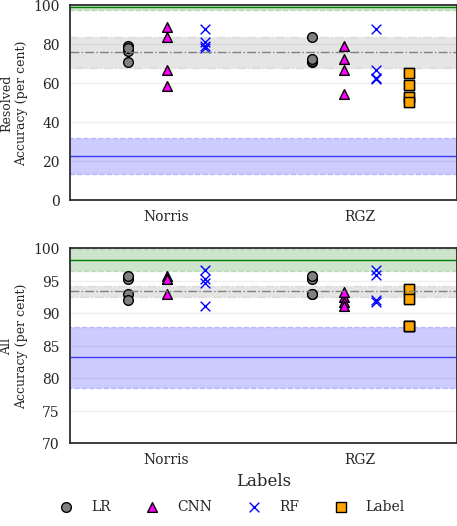
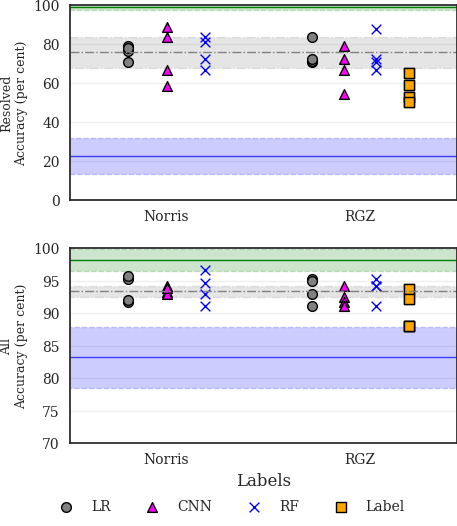
Resolved classifier used on 'all' test set. Resolves MatthewJA/radio#21

diff --git a/ATLAS-CDFS/scripts/plot_grid_cross_identifications.py b/ATLAS-CDFS/scripts/plot_grid_cross_identifications.py
@@ -16,6 +16,7 @@ The Australian National University
 2017
 """
 import collections
+import copy
 import itertools
 import logging
 import re
@@ -29,6 +30,7 @@ import configure_plotting
 import pipeline
 
 configure_plotting.configure()
+log = logging.getLogger(__name__)
 
 titlemap = {
     'RGZ & Norris & compact': 'Compact',
@@ -61,9 +63,11 @@ norris_labelled_sets = [
 ]
 
 def plot(field='cdfs'):
+    log.debug('Getting SWIRE, ATLAS features.')
     swire_names, swire_coords, _ = pipeline.generate_swire_features(overwrite=False, field=field)
     swire_labels = pipeline.generate_swire_labels(swire_names, swire_coords, overwrite=False, field=field)
     (_, atlas_test_sets), (_, swire_test_sets) = pipeline.generate_data_sets(swire_coords, swire_labels, overwrite=False, field=field)
+    log.debug('Calling cross-identify.')
     cids = list(pipeline.cross_identify_all(swire_names, swire_coords, swire_labels, swire_test_sets, swire_labels[:, 0], field=field))
 
     # Also load the nearest-neighbour cross-identifications.
@@ -149,6 +153,12 @@ def plot(field='cdfs'):
                     atlas_to_swire_expert[atlas_cid_to_name[cid]] = name
 
     labeller_classifier_to_accuracies = collections.defaultdict(list)
+
+    # Augment the CIDs by duplicating the "resolved" cross-ids to make the "all" set.
+    resolved_cids_copy = [copy.copy(cid) for cid in cids if 'resolved' in cid.dataset_name]
+    for cid in resolved_cids_copy:
+        cid.dataset_name = cid.dataset_name.replace(' & resolved', '')
+    cids.extend(resolved_cids_copy)
 
     for cid in cids:
         if cid.labeller == 'norris' and 'Norris' not in cid.dataset_name:
@@ -407,5 +417,8 @@ def plot(field='cdfs'):
 
 
 if __name__ == '__main__':
+    logging.basicConfig(level=logging.DEBUG)
+    # logging.getLogger('pipeline').setLevel(logging.DEBUG)
+    # log.setLevel(logging.DEBUG)
     plot(field='cdfs')
     plot(field='elais')

diff --git a/ATLAS-CDFS/scripts/pipeline.py b/ATLAS-CDFS/scripts/pipeline.py
@@ -1140,7 +1140,9 @@ def train_all(
                 labeller,
                 dataset_name,
                 q, **kwargs)
-            for q in range(4)] for dataset_name in sorted(SET_NAMES)}
+            for q in range(4)] for dataset_name in sorted(SET_NAMES)
+                               # We only want resolved/compact-trained classifiers.
+                               if 'resolved' in dataset_name or 'compact' in dataset_name}
 
 
 def predict_all(
@@ -1229,7 +1231,7 @@ def unserialise_cross_identifications(
     if quadrants is None:
         quadrants = [0, 1, 2, 3]
     if dataset_names is None:
-        dataset_names = sorted(SET_NAMES)
+        dataset_names = [n for n in sorted(SET_NAMES) if 'resolved' in n or 'compact' in n]
     for quadrant in quadrants:
         for dataset_name in dataset_names:
             filename = '{}_{}_{}.h5'.format(base_path, quadrant, dataset_name)
@@ -1245,7 +1247,9 @@ def unserialise_predictions(
     if quadrants is None:
         quadrants = [0, 1, 2, 3]
     if dataset_names is None:
-        dataset_names = sorted(SET_NAMES)
+        # Only include predictions that are for resolved or compact subsets.
+        # We don't care about predictions for other sets.
+        dataset_names = [n for n in sorted(SET_NAMES) if 'resolved' in n or 'compact' in n]
     for quadrant in quadrants:
         for dataset_name in dataset_names:
             filename = '{}_{}_{}.h5'.format(base_path, quadrant, dataset_name)
